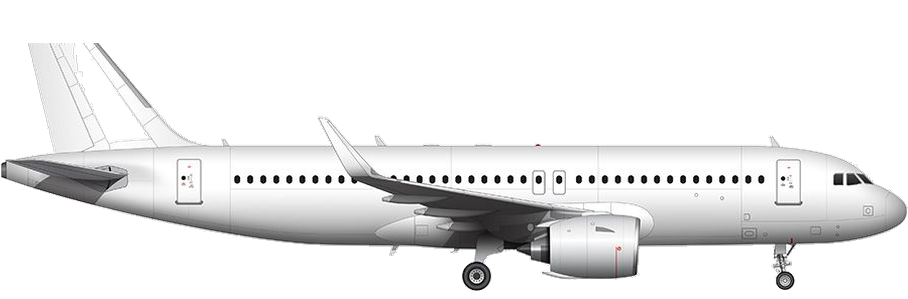
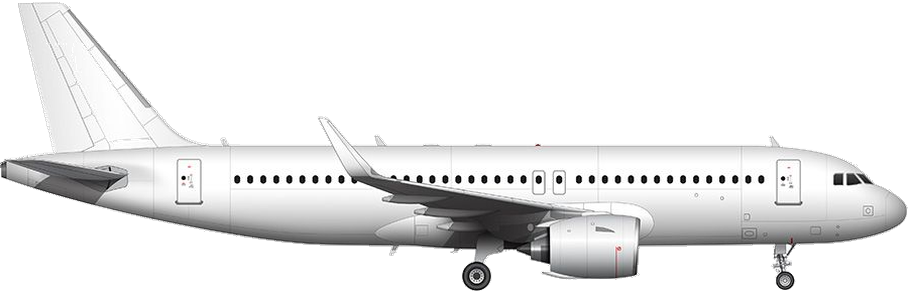
Restore the A320 gear-down tail and add Start Flight liveries.
Training stays the white sprite; Pegasus, Delta, British Airways, and American use painted copies of the same plane.

Changed region(s): [[0.0, 0.0, 0.1233, 0.1505]]

diff --git a/flight-simulator-2026/js/game.js b/flight-simulator-2026/js/game.js
@@ -28,8 +28,8 @@ class Game {
 
     this._bindKeys();
     this._bindFreeCamPointer();
-    this._trainA320 = { up: null, down: null };
-    this._loadTrainingA320();
+    this._a320Sprites = {};
+    this._loadA320Sprites();
     window.addEventListener("resize", () => this._resize());
     this._resize();
 
@@ -37,15 +37,26 @@ class Game {
     requestAnimationFrame(this._loop);
   }
 
-  _loadTrainingA320() {
+  _loadA320Sprites() {
     const base = new URL("./img/", window.location.href).href;
-    const load = (file, key) => {
-      const img = new Image();
-      img.onload = () => { this._trainA320[key] = img; };
-      img.src = base + file;
-    };
-    load("a320-gearup.png", "up");
-    load("a320-geardown.png", "down");
+    const packs = [
+      ["white", "a320"],
+      ["pgt", "a320-pgt"],
+      ["dal", "a320-dal"],
+      ["baw", "a320-baw"],
+      ["aal", "a320-aal"],
+    ];
+    for (const [id, prefix] of packs) {
+      const pack = { up: null, down: null };
+      this._a320Sprites[id] = pack;
+      const load = (file, key) => {
+        const img = new Image();
+        img.onload = () => { pack[key] = img; };
+        img.src = `${base}${file}?v=liv1`;
+      };
+      load(`${prefix}-gearup.png`, "up");
+      load(`${prefix}-geardown.png`, "down");
+    }
   }
 
   _resize() {
@@ -986,7 +997,7 @@ class Game {
     ctx.translate(sx, sy);
     ctx.rotate(-ac.pitch); // screen y is inverted
     if ((ac.facing || 1) < 0) ctx.scale(-1, 1);
-    if (this.training && ac.spec && ac.spec.id === "a320" && this._paintTrainingA320(ctx, ac, px)) {
+    if (ac.spec && ac.spec.id === "a320" && this._paintSpriteA320(ctx, ac, px)) {
       ctx.restore();
     } else {
       ctx.translate(0, -contactY); // lift body so wheels pivot on the ground point
@@ -1006,11 +1017,12 @@ class Game {
     ctx.restore();
   }
 
-  /* Training-only A320 sprite (gear up / gear down). Returns false if not ready. */
-  _paintTrainingA320(ctx, ac, px) {
-    const img = (ac.gearDown || (ac.spec && ac.spec.fixedGear))
-      ? this._trainA320.down
-      : this._trainA320.up;
+  /* White A320 in training; painted liveries on Start Flight. Returns false if not ready. */
+  _paintSpriteA320(ctx, ac, px) {
+    const id = this.training ? "white" : (ac.airline && ac.airline.id);
+    const pack = this._a320Sprites[id];
+    if (!pack) return false;
+    const img = (ac.gearDown || (ac.spec && ac.spec.fixedGear)) ? pack.down : pack.up;
     if (!img || !img.naturalWidth) return false;
     const w = px * 1.12;
     const h = w * (img.naturalHeight / img.naturalWidth);

diff --git a/flight-simulator-2026/index.html b/flight-simulator-2026/index.html
@@ -153,7 +153,7 @@
   <script src="js/input.js?v=hump38"></script>
   <script src="js/hud.js?v=hump38"></script>
   <script src="js/loading.js?v=hump38"></script>
-  <script src="js/game.js?v=traina320"></script>
+  <script src="js/game.js?v=a320liv1"></script>
   <script src="js/mobile.js?v=hump38"></script>
   <script src="js/menu.js?v=free1"></script>
   <script src="js/main.js"></script>
